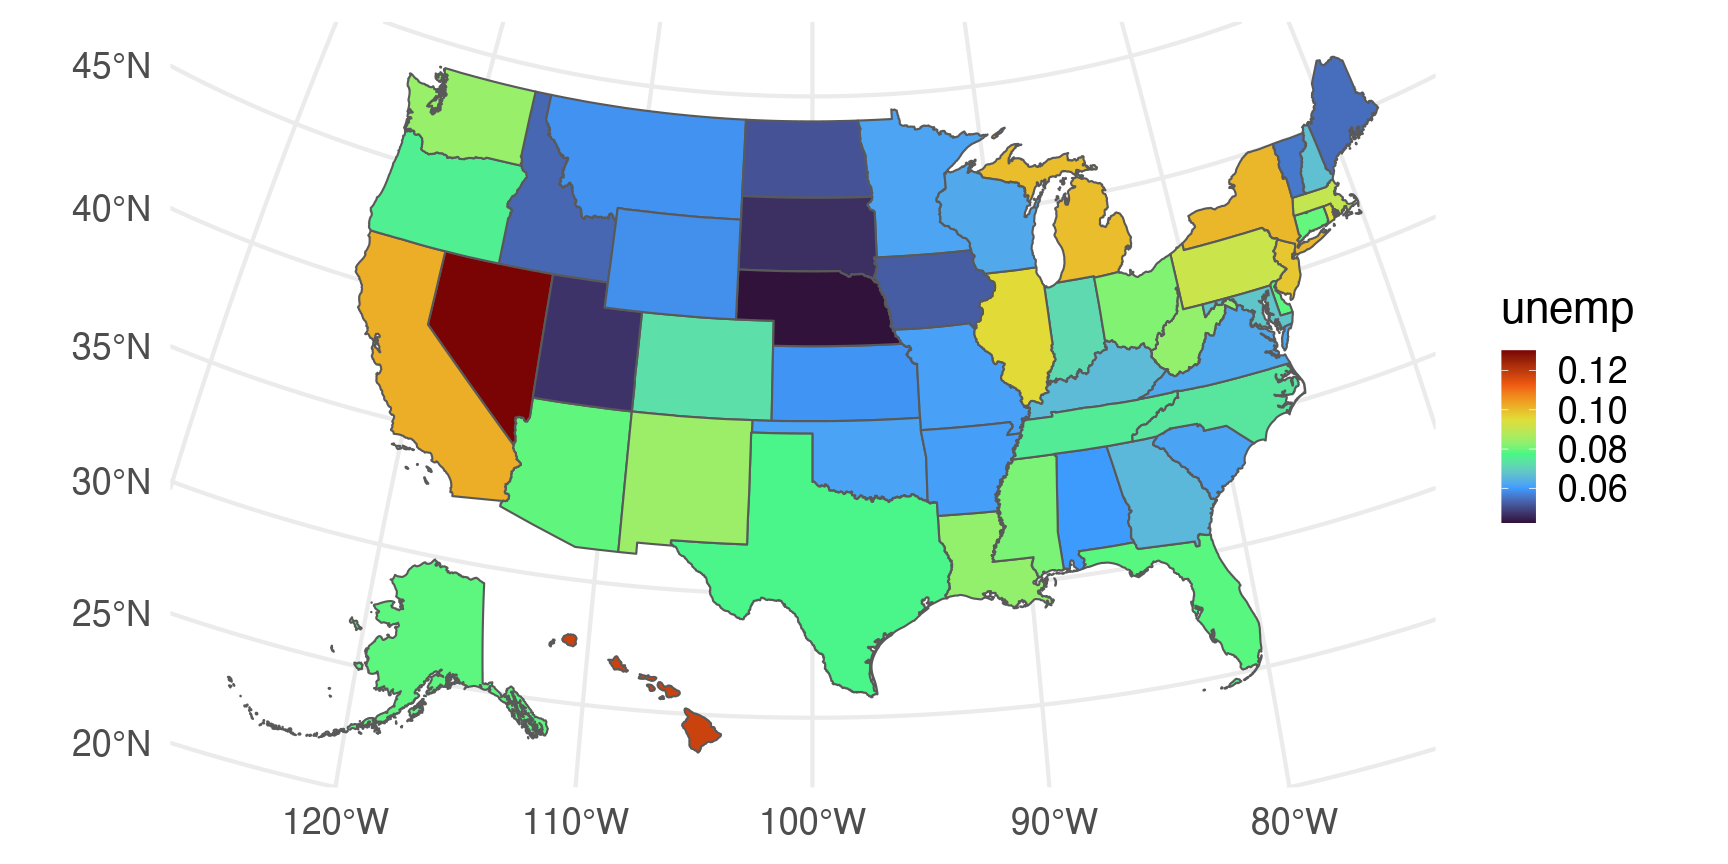
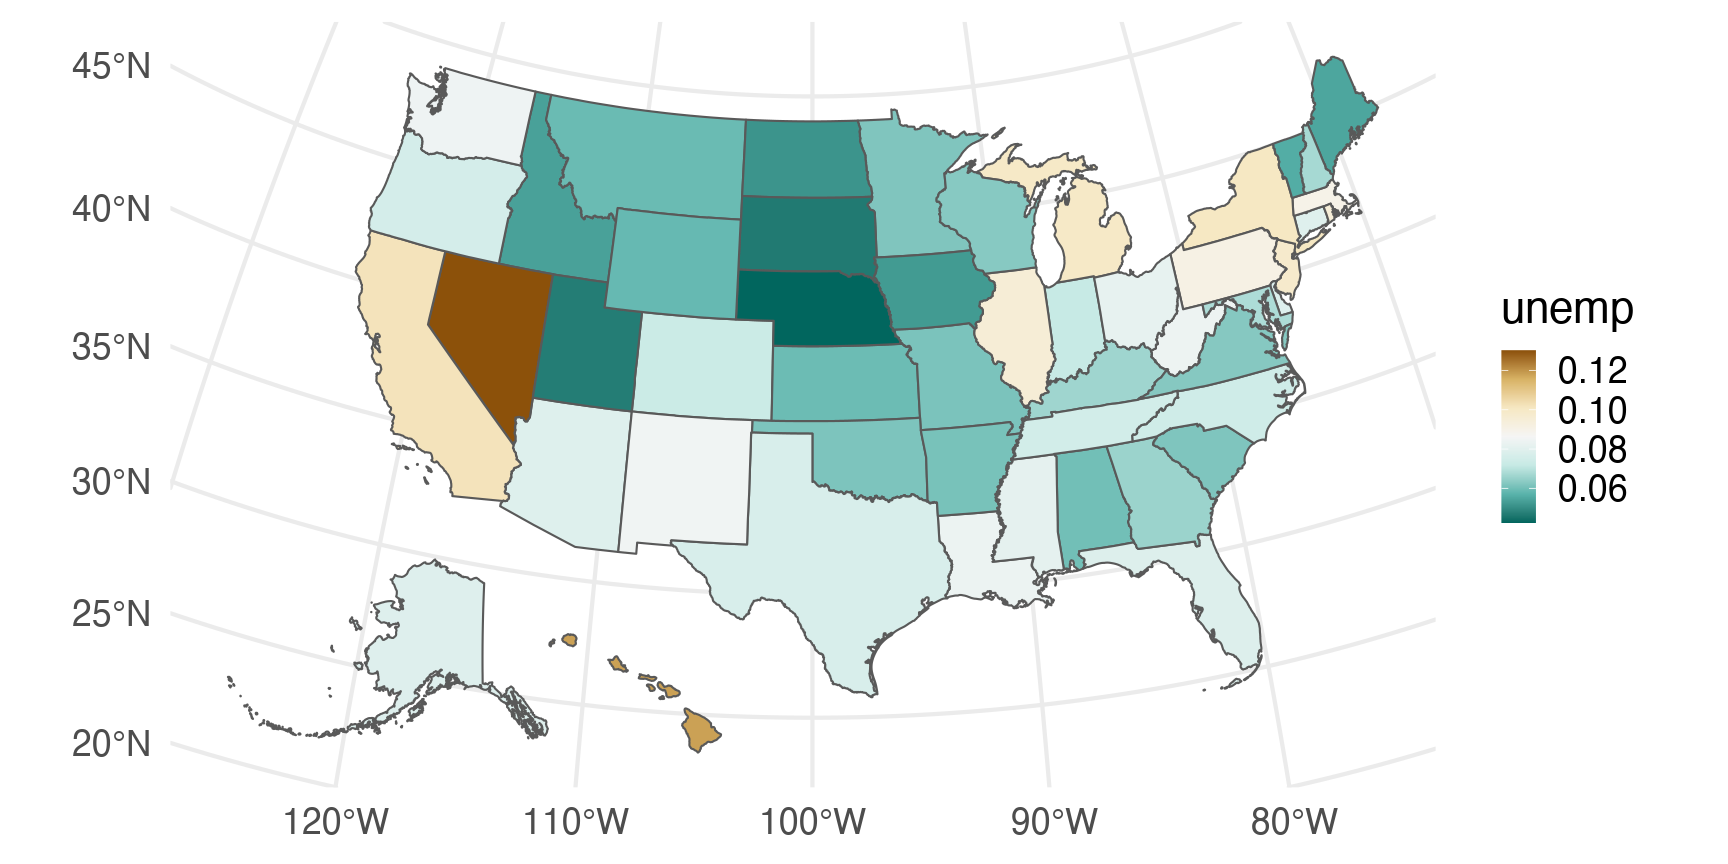
Add desaturation example of viridis

diff --git a/slides/index.html b/slides/index.html
@@ -377,9 +377,15 @@ ggplot(data = unemp_20, mapping = aes(fill = unemp)) +
 
 ---
 
-# Comparison of palettes
+# Green-Blind (Deuteranopia)
 
 &lt;img src="index_files/figure-html/unnamed-chunk-44-1.png" width="864" /&gt;
+
+---
+
+# Desaturated
+
+&lt;img src="index_files/figure-html/unnamed-chunk-45-1.png" width="864" /&gt;
 
 ---
 
@@ -392,7 +398,7 @@ ggplot(data = unemp_20, mapping = aes(fill = unemp)) +
   scale_fill_viridis_c()
 ```
 
-&lt;img src="index_files/figure-html/unnamed-chunk-45-1.png" width="864" /&gt;
+&lt;img src="index_files/figure-html/unnamed-chunk-46-1.png" width="864" /&gt;
 
 ---
 
@@ -405,7 +411,7 @@ ggplot(data = unemp_20, mapping = aes(fill = unemp)) +
   scale_fill_viridis_c(option = "magma")
 ```
 
-&lt;img src="index_files/figure-html/unnamed-chunk-46-1.png" width="864" /&gt;
+&lt;img src="index_files/figure-html/unnamed-chunk-47-1.png" width="864" /&gt;
 
 ---
 
@@ -418,7 +424,7 @@ ggplot(data = gss_polviews, mapping = aes(x = polviews, fill = polviews)) +
   scale_fill_viridis_d(guide = FALSE)
 ```
 
-&lt;img src="index_files/figure-html/unnamed-chunk-47-1.png" width="864" /&gt;
+&lt;img src="index_files/figure-html/unnamed-chunk-48-1.png" width="864" /&gt;
 
 ---
 
@@ -426,7 +432,7 @@ class: middle, center, inverse
 
 # Exercise on implementing palettes
 
-<div class="countdown" id="timer_618193d7" style="right:0;bottom:0;" data-warnwhen="0">
+<div class="countdown" id="timer_61819a7d" style="right:0;bottom:0;" data-warnwhen="0">
 <code class="countdown-time"><span class="countdown-digits minutes">08</span><span class="countdown-digits colon">:</span><span class="countdown-digits seconds">00</span></code>
 </div>
 
@@ -468,13 +474,13 @@ class: middle, center, inverse
 
 
 
-&lt;img src="index_files/figure-html/unnamed-chunk-53-1.png" width="864" /&gt;
+&lt;img src="index_files/figure-html/unnamed-chunk-54-1.png" width="864" /&gt;
 
 ---
 
 # Emphasize extremes
 
-&lt;img src="index_files/figure-html/unnamed-chunk-54-1.png" width="864" /&gt;
+&lt;img src="index_files/figure-html/unnamed-chunk-55-1.png" width="864" /&gt;
 
 ---
 
@@ -499,7 +505,7 @@ ggplot(data = gss_polviews, mapping = aes(x = polviews, fill = polviews)) +
   scale_fill_brewer(type = "div", guide = FALSE)
 ```
 
-&lt;img src="index_files/figure-html/unnamed-chunk-57-1.png" width="864" /&gt;
+&lt;img src="index_files/figure-html/unnamed-chunk-58-1.png" width="864" /&gt;
 
 ---
 
@@ -512,7 +518,7 @@ ggplot(data = unemp_20, mapping = aes(fill = unemp)) +
   scale_fill_distiller(type = "div")
 ```
 
-&lt;img src="index_files/figure-html/unnamed-chunk-58-1.png" width="864" /&gt;
+&lt;img src="index_files/figure-html/unnamed-chunk-59-1.png" width="864" /&gt;
 
 ---
 
@@ -525,7 +531,7 @@ ggplot(data = unemp_20, mapping = aes(fill = unemp)) +
   scale_fill_viridis_c(option = "turbo")
 ```
 
-&lt;img src="index_files/figure-html/unnamed-chunk-59-1.png" width="864" /&gt;
+&lt;img src="index_files/figure-html/unnamed-chunk-60-1.png" width="864" /&gt;
 
 ---
 
@@ -533,7 +539,7 @@ class: center, middle, inverse
 
 # Exercise on diverging palettes
 
-<div class="countdown" id="timer_618195e4" style="right:0;bottom:0;" data-warnwhen="0">
+<div class="countdown" id="timer_61819a6d" style="right:0;bottom:0;" data-warnwhen="0">
 <code class="countdown-time"><span class="countdown-digits minutes">08</span><span class="countdown-digits colon">:</span><span class="countdown-digits seconds">00</span></code>
 </div>
 
@@ -555,31 +561,31 @@ class: center, middle, inverse
 
 
 
-&lt;img src="index_files/figure-html/unnamed-chunk-64-1.png" width="864" /&gt;
+&lt;img src="index_files/figure-html/unnamed-chunk-65-1.png" width="864" /&gt;
 
 ---
 
 # Communicating general patterns
 
-&lt;img src="index_files/figure-html/unnamed-chunk-65-1.png" width="864" /&gt;
+&lt;img src="index_files/figure-html/unnamed-chunk-66-1.png" width="864" /&gt;
 
 ---
 
 # Increased classes for more nuance
 
-&lt;img src="index_files/figure-html/unnamed-chunk-66-1.png" width="864" /&gt;
+&lt;img src="index_files/figure-html/unnamed-chunk-67-1.png" width="864" /&gt;
 
 ---
 
 # Assisting with interpretations
 
-&lt;img src="index_files/figure-html/unnamed-chunk-67-1.png" width="864" /&gt;
+&lt;img src="index_files/figure-html/unnamed-chunk-68-1.png" width="864" /&gt;
 
 ---
 
 # Directly encoding values
 
-&lt;img src="index_files/figure-html/unnamed-chunk-68-1.png" width="864" /&gt;
+&lt;img src="index_files/figure-html/unnamed-chunk-69-1.png" width="864" /&gt;
 
 ---
 
@@ -592,37 +598,37 @@ class: center, middle, inverse
 
 # Linear
 
-&lt;img src="index_files/figure-html/unnamed-chunk-69-1.png" width="864" /&gt;
+&lt;img src="index_files/figure-html/unnamed-chunk-70-1.png" width="864" /&gt;
 
 ---
 
 # Linear
 
-&lt;img src="index_files/figure-html/unnamed-chunk-70-1.png" width="864" /&gt;
+&lt;img src="index_files/figure-html/unnamed-chunk-71-1.png" width="864" /&gt;
 
 ---
 
 # Quartiles
 
-&lt;img src="index_files/figure-html/unnamed-chunk-71-1.png" width="864" /&gt;
+&lt;img src="index_files/figure-html/unnamed-chunk-72-1.png" width="864" /&gt;
 
 ---
 
 # Quintiles
 
-&lt;img src="index_files/figure-html/unnamed-chunk-72-1.png" width="864" /&gt;
+&lt;img src="index_files/figure-html/unnamed-chunk-73-1.png" width="864" /&gt;
 
 ---
 
 # Deciles
 
-&lt;img src="index_files/figure-html/unnamed-chunk-73-1.png" width="864" /&gt;
+&lt;img src="index_files/figure-html/unnamed-chunk-74-1.png" width="864" /&gt;
 
 ---
 
 # Natural breaks
 
-&lt;img src="index_files/figure-html/unnamed-chunk-74-1.png" width="864" /&gt;
+&lt;img src="index_files/figure-html/unnamed-chunk-75-1.png" width="864" /&gt;
 
 ---
 
@@ -810,7 +816,7 @@ class: middle, center, inverse
 
 # Exercises on interpolating continuous variables
 
-<div class="countdown" id="timer_618195ab" style="right:0;bottom:0;" data-warnwhen="0">
+<div class="countdown" id="timer_61819973" style="right:0;bottom:0;" data-warnwhen="0">
 <code class="countdown-time"><span class="countdown-digits minutes">07</span><span class="countdown-digits colon">:</span><span class="countdown-digits seconds">00</span></code>
 </div>
     </textarea>
